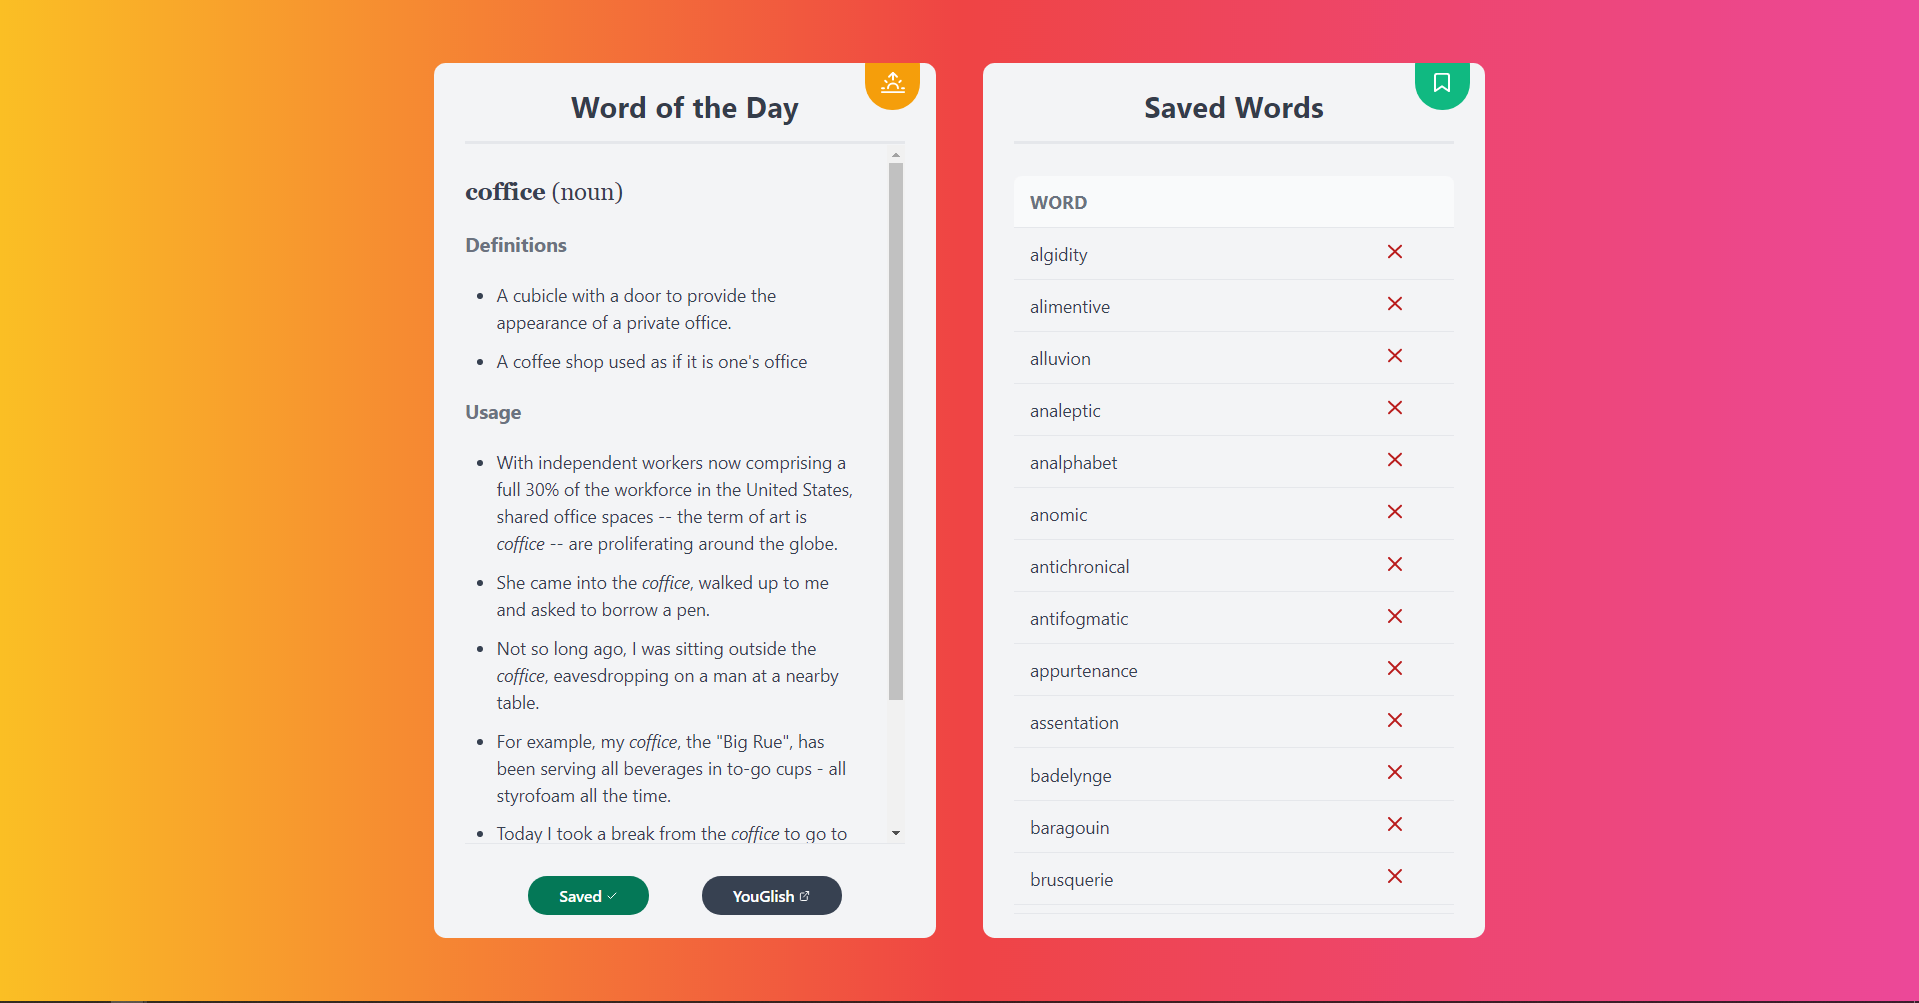
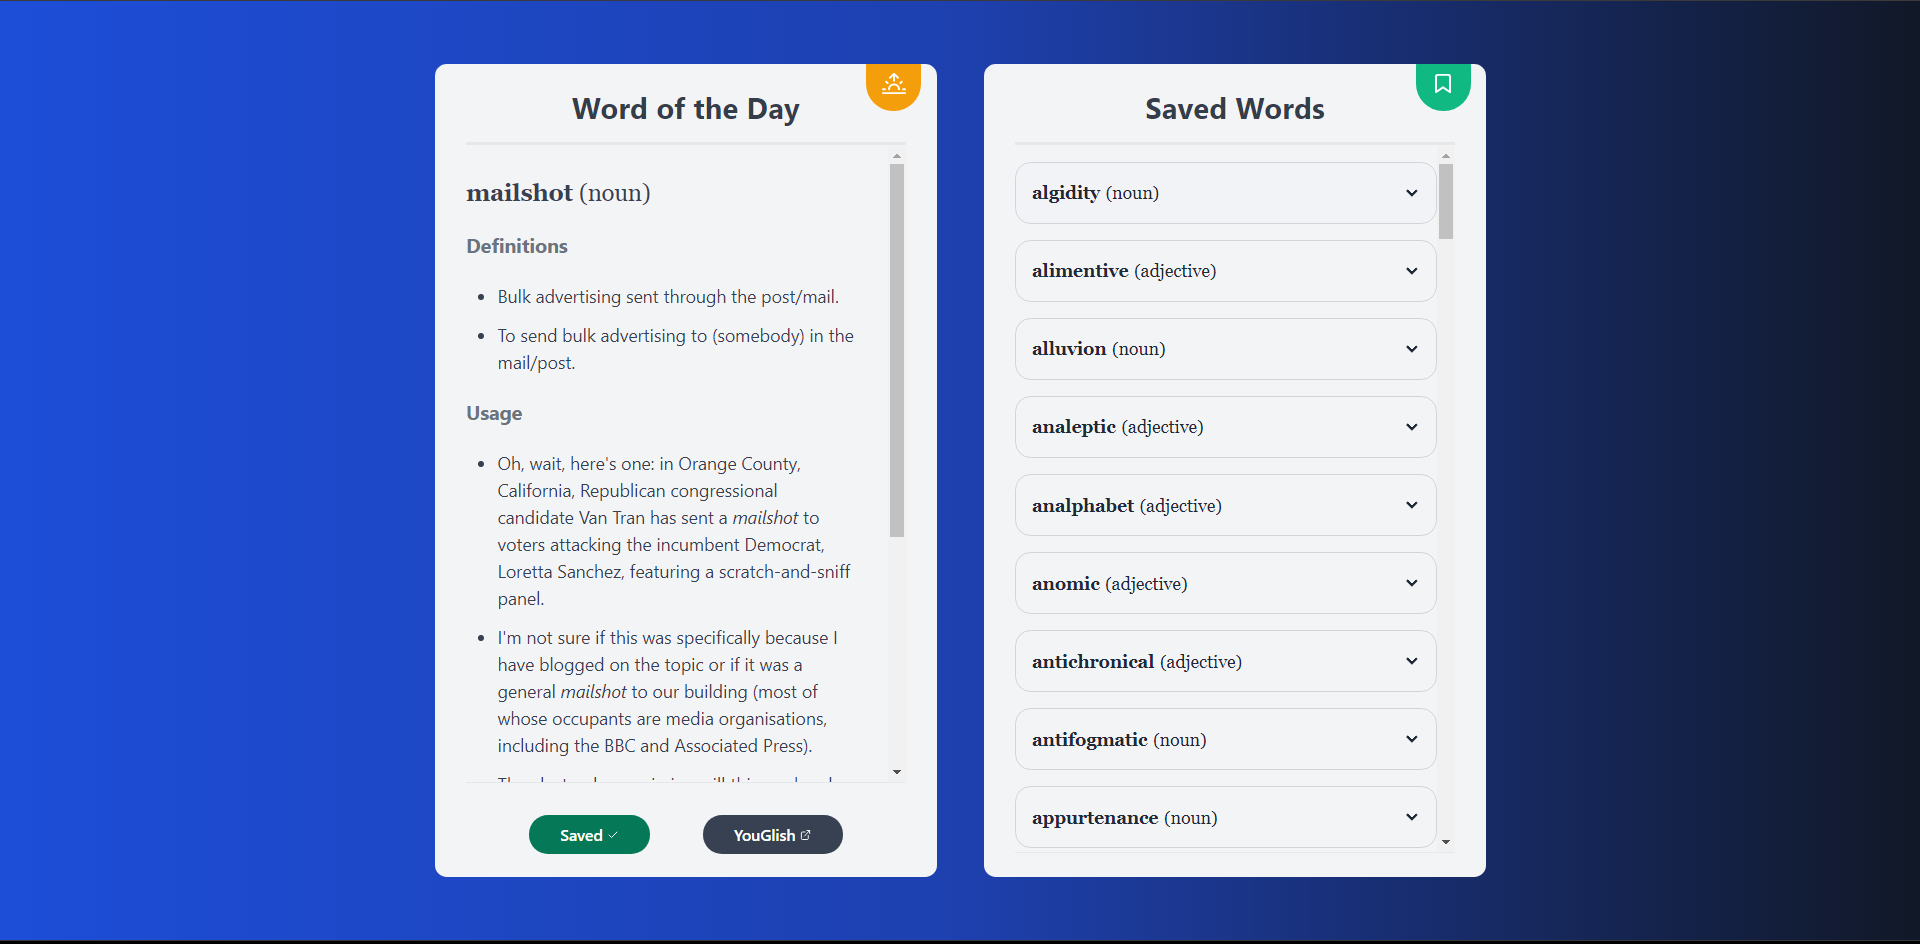
update screenshot and fix padding

diff --git a/src/popup/WordListCard.svelte b/src/popup/WordListCard.svelte
@@ -63,7 +63,7 @@
   <div class="overflow-y-scroll ">
     <div class="mt-4" />
     <div class="bg-gray-100 w-full mb-8 rounded-lg shadow-xs">
-      <div class="bg-gray-100 w-full overflow-x-auto space-between-y-4">
+      <div class="bg-gray-100 w-full overflow-x-auto space-y-4">
         {#each Object.entries(wordArr) as [key, value] (key)}
           <div
             class="collapse w-full border rounded-box border-gray-300 collapse-arrow text-gray-800 "
